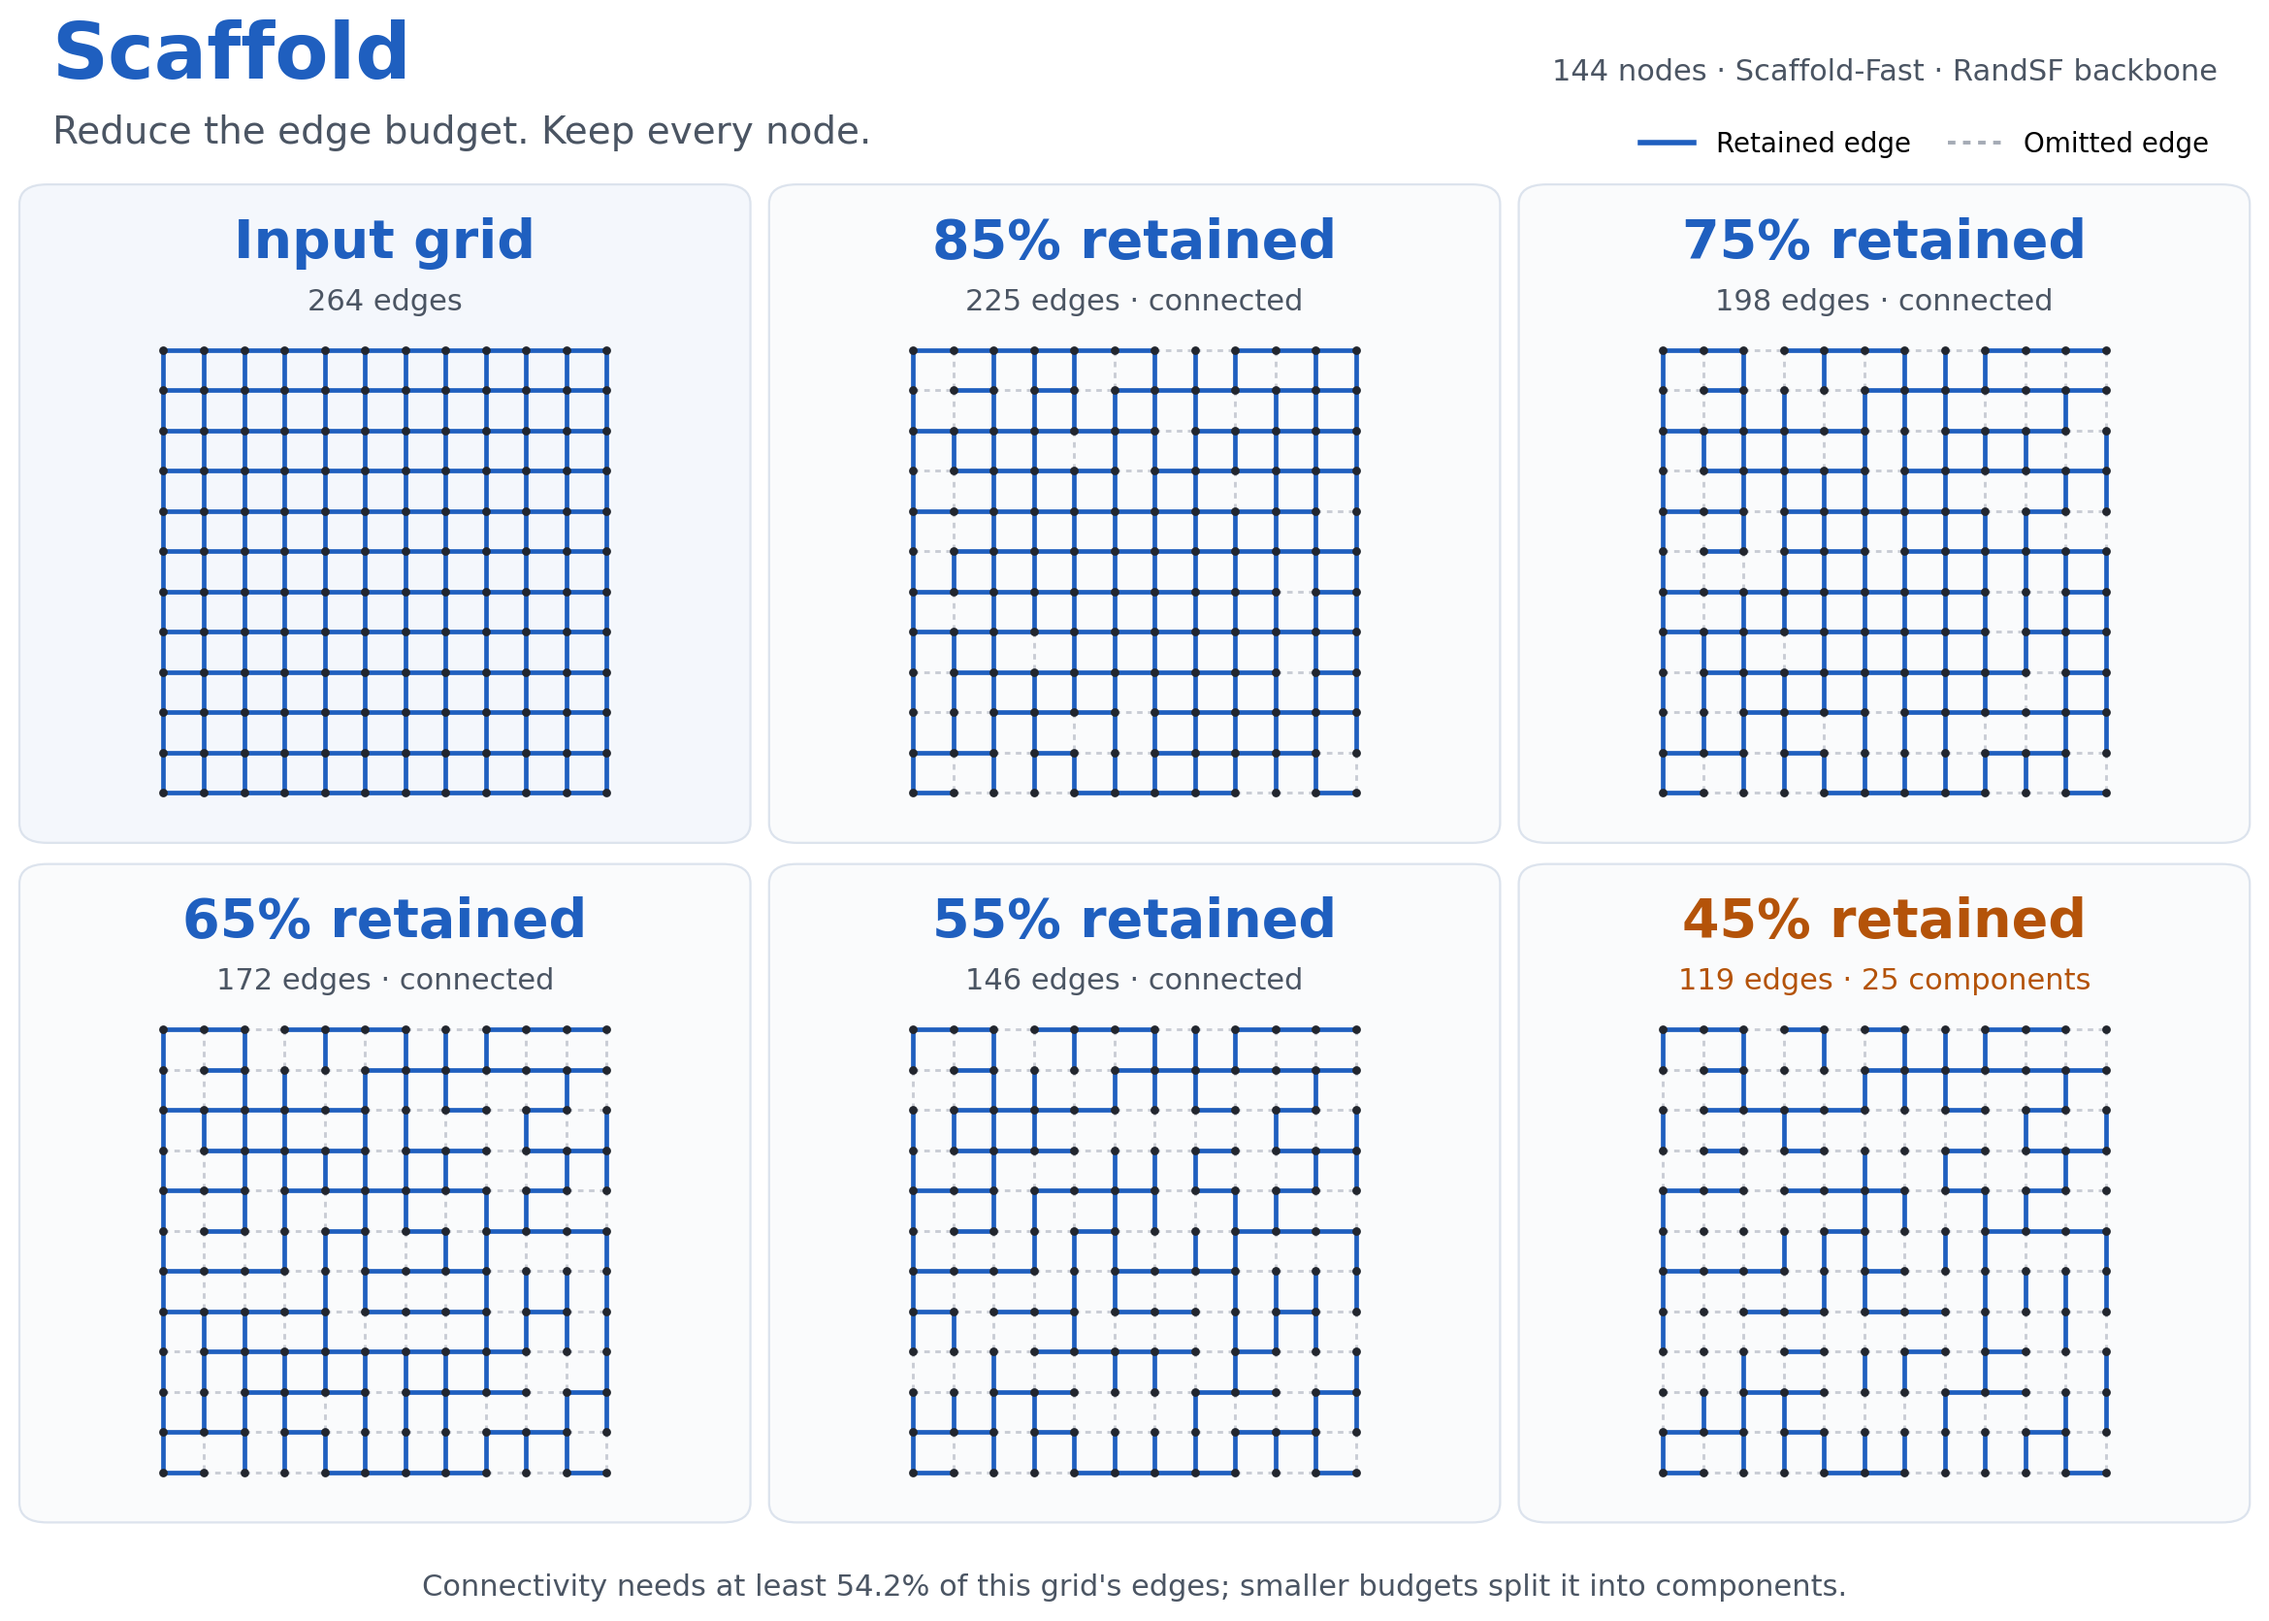
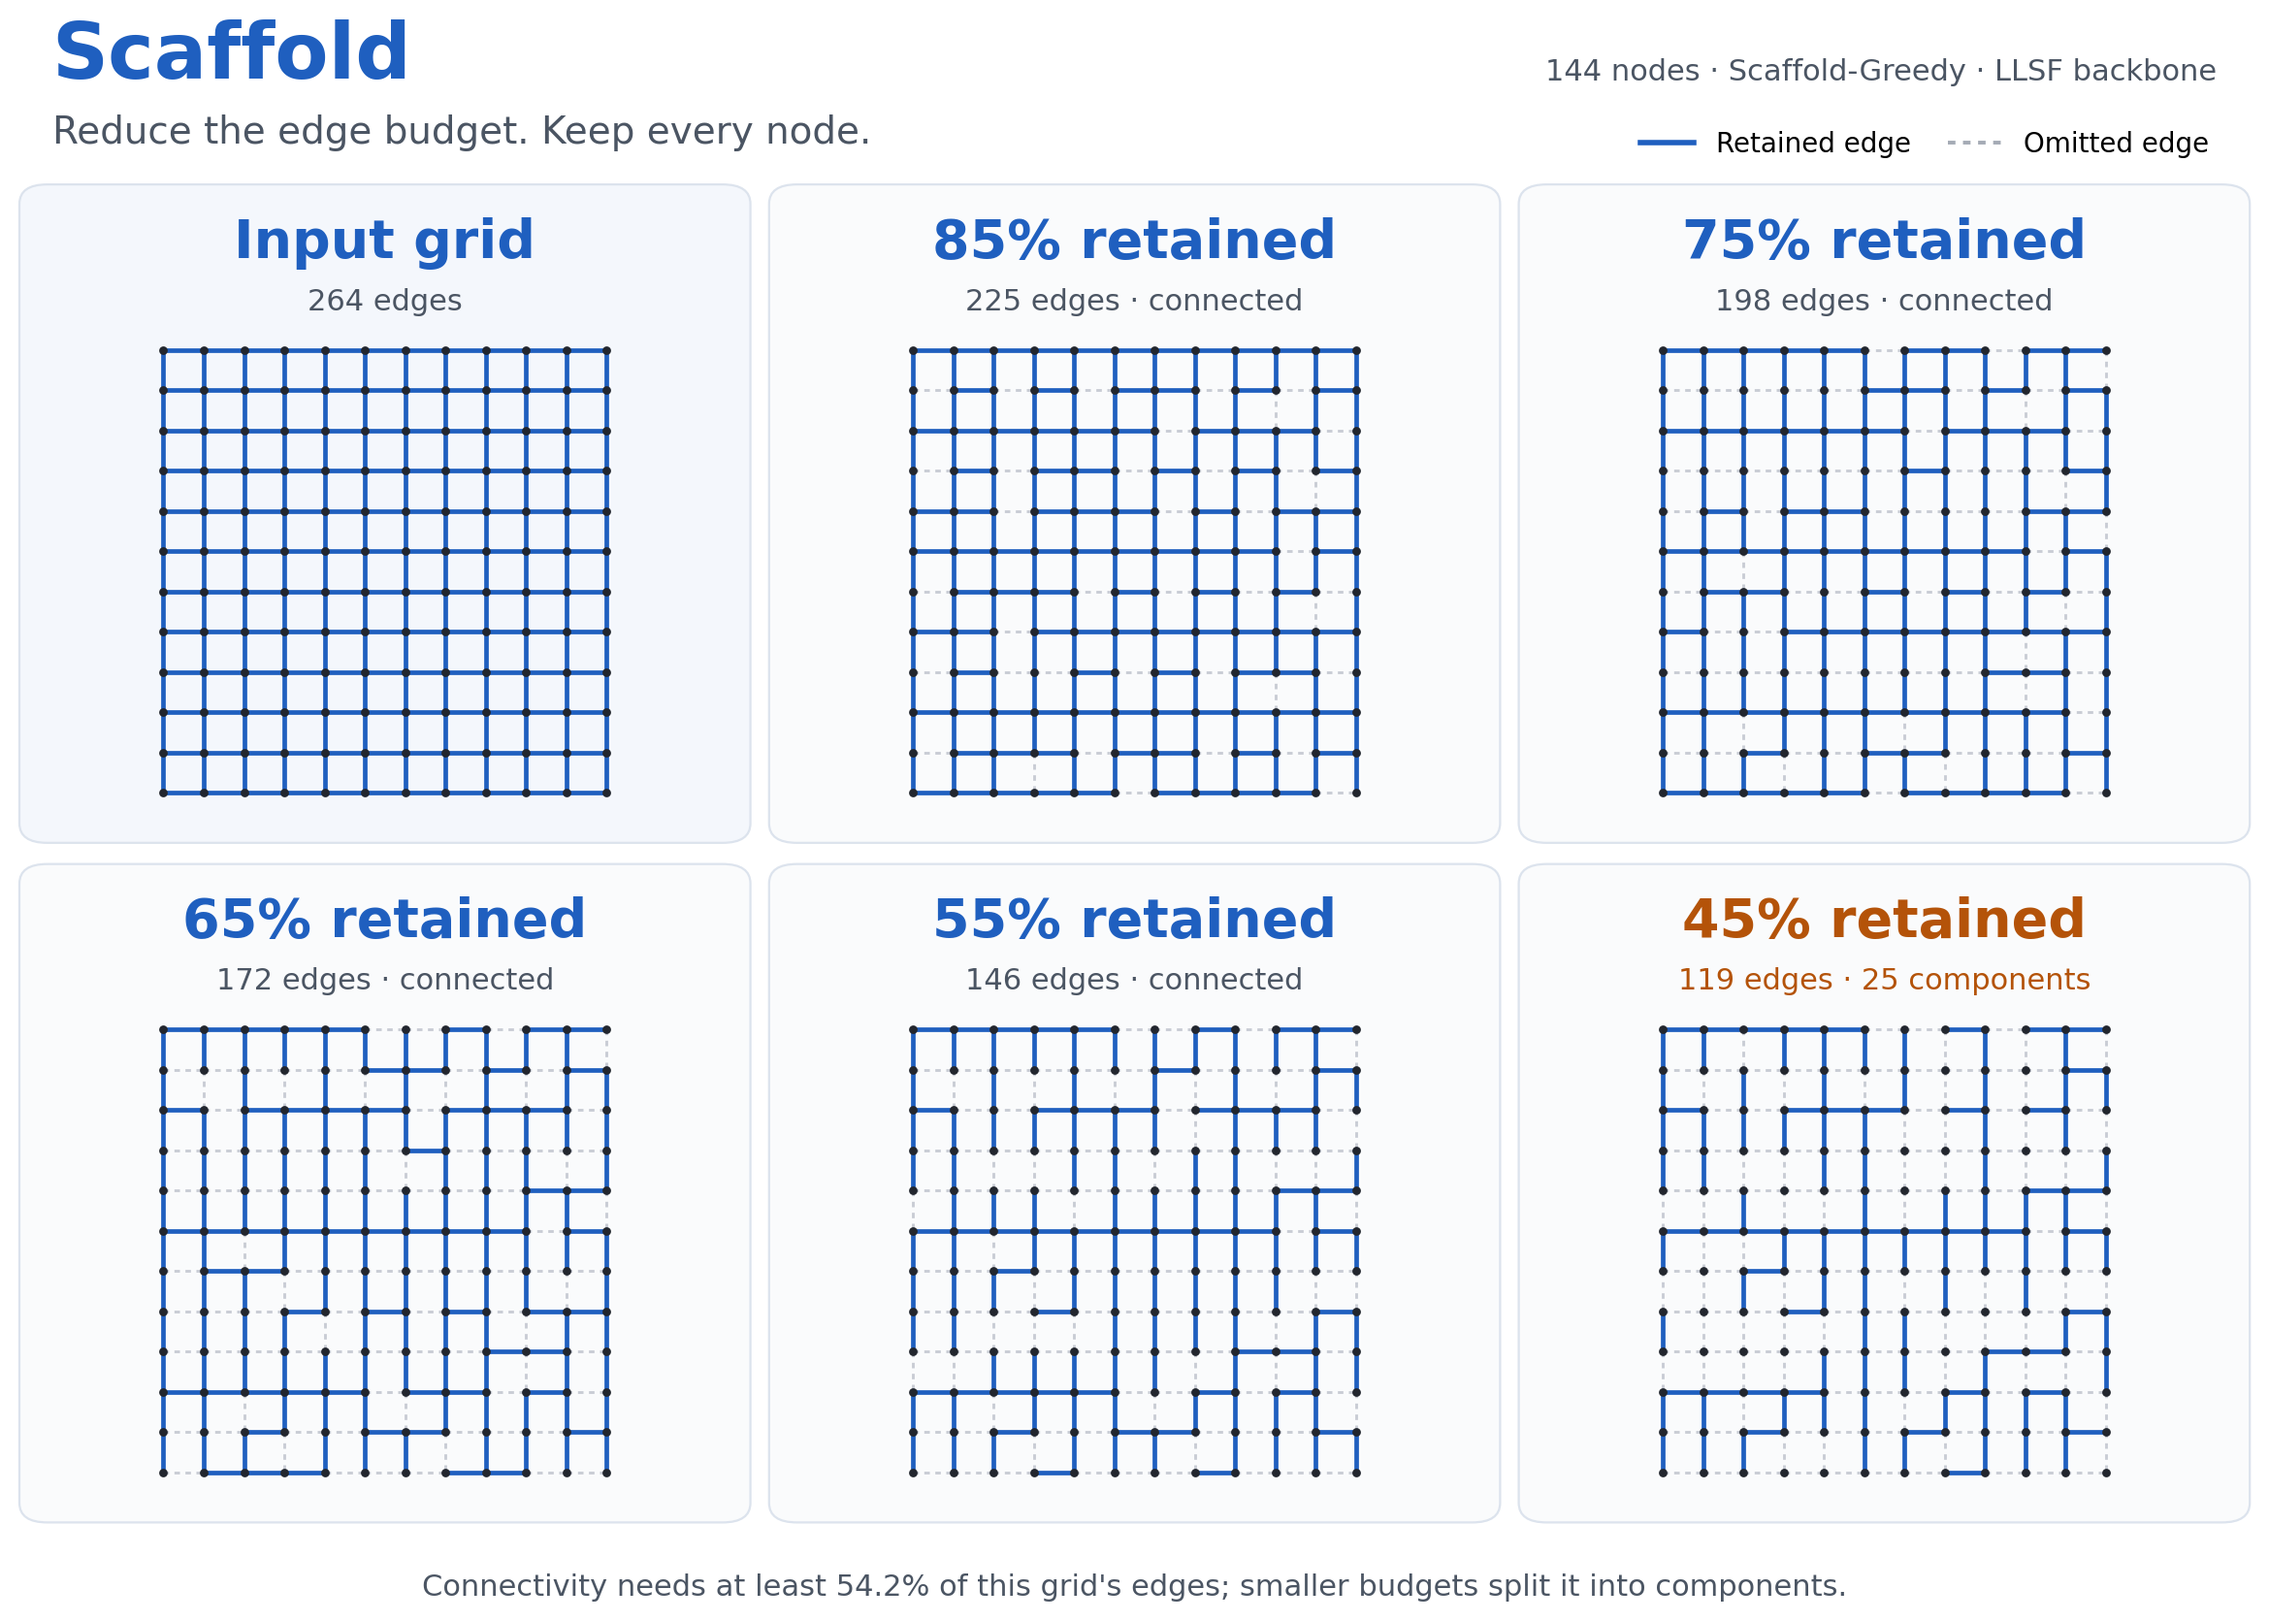
updated

diff --git a/examples/01_grid_demo.py b/examples/01_grid_demo.py
@@ -6,15 +6,16 @@ Run::
 
 Why a grid? Its regular layout makes retained paths and omitted edges easy
 to compare, without the visual clutter of a large irregular graph.
-The method, budget, and sampling demos share a seeded RandSF backbone;
-the backbone comparison shows each named construction separately.
+The method and sampling demos share a seeded RandSF backbone. The opening
+budget demo uses Scaffold-Greedy with LLSF; the backbone comparison shows
+each named construction separately.
 
 Produces five grid figures, backbone and resampling GIFs, and measurements in
 ``grid_backbones.json`` and ``grid_coverage.json``:
 
 1. ``grid_backbones.png``  -- what each support backbone looks like
 2. ``grid_methods.png``    -- the five algorithms at the same budget
-3. ``grid_ratios.png``     -- SCAFFOLD-Fast as the budget tightens
+3. ``grid_ratios.png``     -- SCAFFOLD-Greedy with LLSF as the budget tightens
 4. ``grid_scores.png``     -- SCAFFOLD-Sample's per-edge weights
 5. ``grid_coverage.png``   -- what per-epoch resampling covers over time
 """
@@ -353,18 +354,25 @@ def figure_methods(graph, positions, out_dir):
     return path
 
 
-def figure_ratios(graph, positions, out_dir):
+def figure_ratios(graph, positions, out_dir, quick=False):
     """README overview: the input and five progressively smaller budgets."""
     import matplotlib.pyplot as plt
     from matplotlib.lines import Line2D
     from matplotlib.patches import FancyBboxPatch
 
     delta_min = (graph.num_nodes - 1) / graph.num_edges
+    # Refine one forest, then share it across budgets. This avoids repeating
+    # the expensive LLSF construction for each panel.
+    options = {"init_support": "GLSF", "max_passes": 10}
+    if quick:
+        options.update(max_passes=2, candidate_sample_size=16, cycle_sample_size=4)
+    print("  building shared LLSF backbone...", flush=True)
+    backbone = build_backbone(graph, "LLSF", seed=SEED, **options)
     ratios = [0.85, 0.75, 0.65, 0.55, 0.45]
     panels = [("Input grid", f"{graph.num_edges} edges", None, False)]
     for ratio in ratios:
-        result = scaffold.fast(
-            graph, keep_ratio=ratio, backbone=DEMO_BACKBONE, seed=SEED
+        result = scaffold.greedy(
+            graph, keep_ratio=ratio, backbone=backbone, seed=SEED
         )
         components = result.num_components()
         detail = "connected" if components == 1 else _count_label(components, "component")
@@ -378,7 +386,7 @@ def figure_ratios(graph, positions, out_dir):
     fig.text(.035, .955, "Scaffold", fontsize=29, fontweight="bold", color="#1f5fbf")
     fig.text(.035, .915, "Reduce the edge budget. Keep every node.",
              fontsize=14, color="#4b5563")
-    fig.text(.965, .954, f"{graph.num_nodes} nodes · Scaffold-Fast · RandSF backbone",
+    fig.text(.965, .954, f"{graph.num_nodes} nodes · Scaffold-Greedy · LLSF backbone",
              ha="right", fontsize=11, color="#4b5563")
     fig.legend(
         handles=[
@@ -653,13 +661,13 @@ def main():
     args.cols = args.cols if args.cols is not None else (6 if args.quick else COLS)
 
     graph = scaffold.grid_graph(args.rows, args.cols)
-    if args.only in (None, "backbones") and graph.num_edges > DEFAULT_LLST_MAX_INPUT_EDGES:
+    if args.only in (None, "backbones", "ratios") and graph.num_edges > DEFAULT_LLST_MAX_INPUT_EDGES:
         parser.error(
-            f"The LLSF backbone demo is limited to {DEFAULT_LLST_MAX_INPUT_EDGES:,} "
+            f"The LLSF backbone and edge-budget demos are limited to {DEFAULT_LLST_MAX_INPUT_EDGES:,} "
             f"undirected input edges; this grid has {graph.num_edges:,}. "
             "Exhaustive local search can take many minutes or longer. Use a "
             "smaller grid, or select a RandSF demo with --only methods, "
-            "--only ratios, --only scores, or --only coverage."
+            "--only scores, or --only coverage."
         )
 
     import matplotlib
@@ -683,8 +691,8 @@ def main():
     selected = [args.only] if args.only else list(figures)
     for index, name in enumerate(selected, start=1):
         print(f"\n[{index}/{len(selected)}] {name}")
-        if name == "backbones":
-            figure_backbones(graph, positions, args.out, quick=args.quick)
+        if name in ("backbones", "ratios"):
+            figures[name](graph, positions, args.out, quick=args.quick)
         else:
             figures[name](graph, positions, args.out)
     print("\ndone.")

diff --git a/tests/test_llst.py b/tests/test_llst.py
@@ -297,7 +297,7 @@ def test_recommended_backbones_are_not_limited_by_llst_guard(backbone):
     assert nx.is_tree(nx_graph(graph, mask))
 
 
-@pytest.mark.parametrize("selection", [[], ["--only", "backbones"]])
+@pytest.mark.parametrize("selection", [[], ["--only", "backbones"], ["--only", "ratios"]])
 def test_oversized_backbone_demo_fails_before_building_any_tree(tmp_path, selection):
     root = Path(__file__).resolve().parents[1]
     script = root / "examples" / "01_grid_demo.py"
@@ -309,7 +309,7 @@ def test_oversized_backbone_demo_fails_before_building_any_tree(tmp_path, select
     )
     assert result.returncode == 2
     assert "1,104" in result.stderr and "1,000" in result.stderr
-    assert "--only ratios" in result.stderr
+    assert "--only methods" in result.stderr and "--only ratios" not in result.stderr
     assert "building" not in result.stdout
     assert not output.exists()
 

diff --git a/examples/README.md b/examples/README.md
@@ -41,9 +41,10 @@ python benchmarks/bench_methods.py --batch-sample-size 64 --batch-add-per-round 
 A 2-D lattice has a regular layout that makes supporting paths, omitted edges,
 and differences between backbones easy to inspect. The examples use the same
 graph and seed so that the effects of each method are visible.
-The method, smaller-budget, and sampling demos share a seeded `randsf`
-backbone (`fixed-randsf` for Sample). The backbone comparison still shows
-each named construction.
+The method and sampling demos share a seeded `randsf` backbone (`fixed-randsf`
+for Sample). The opening edge-budget demo uses Scaffold-Greedy with an LLSF
+backbone, built once and reused across all five ratios. The backbone comparison
+still shows each named construction.
 
 These grid inputs are unweighted and connected, so each forest in the figures
 is a single spanning tree. The display labels use RandSF, MaxSF, SPF, GLSF,
@@ -60,7 +61,7 @@ support can include additional edges and cycles.
 | `grid_backbones.png` | input grid and seven backbones, with full method names and measured stretch |
 | `grid_backbones.gif` | animated comparison of the same seven completed forests; each frame expands the name and explains construction; LLSF is last |
 | `grid_methods.png` | input and five algorithms at one budget in a 2×3 grid |
-| `grid_ratios.png` | README opening visual: input, then 85%, 75%, 65%, 55%, and 45% retention with Fast and RandSF, in a 2×3 grid |
+| `grid_ratios.png` | README opening visual: input, then 85%, 75%, 65%, 55%, and 45% retention with Greedy and LLSF, in a 2×3 grid |
 | `grid_scores.png` | input, Sample weights, inclusion probabilities, and one draw in a 2×2 grid |
 | `grid_coverage.png` | three union snapshots and the coverage curve in a 2×2 grid |
 | `grid_coverage.gif` | a 2×2 animation of input, current view, cumulative union, and coverage |
@@ -81,11 +82,12 @@ IDs, edge counts, component counts, and omitted-edge stretch for each forest. LL
 default GLSF initializer and up to 10 exhaustive search passes. All panels
 use the same graph and seed; LLSF preserves the forest size while reducing
 the total stretch of its initializer. Exact LLSF adds computation to these
-small-grid examples; the other four figures can be regenerated separately
-with `--only methods`, `--only ratios`, `--only scores`, or `--only coverage`.
-The script rejects a backbone comparison above 1,000 undirected input edges
-before building any trees, because LLSF's runtime can be very large. For
-larger grids, choose one of those RandSF demos. The LLSF API has an explicit
+small-grid examples. The opening `--only ratios` demo also uses LLSF with these
+settings; `--quick` uses two sampled swaps for both LLSF demos. Other figures
+can be regenerated separately with `--only methods`, `--only scores`, or
+`--only coverage`. The script rejects backbone and edge-budget demos above
+1,000 undirected input edges before building any trees. For larger grids,
+choose one of the RandSF demos. The LLSF API has an explicit
 `max_input_edges` override for deliberate experiments; see
 [the backbone guide](../docs/backbones.md#llst).
 
